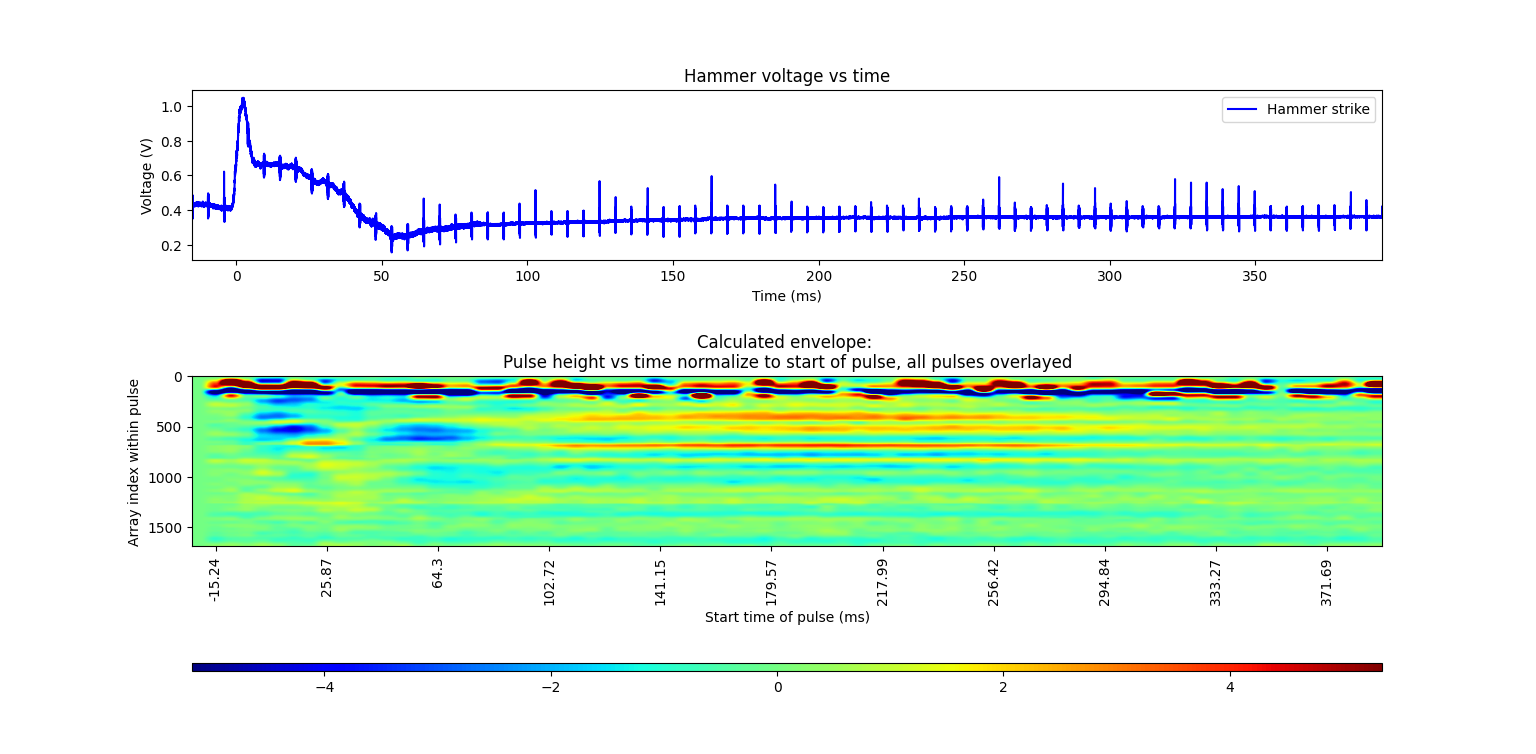
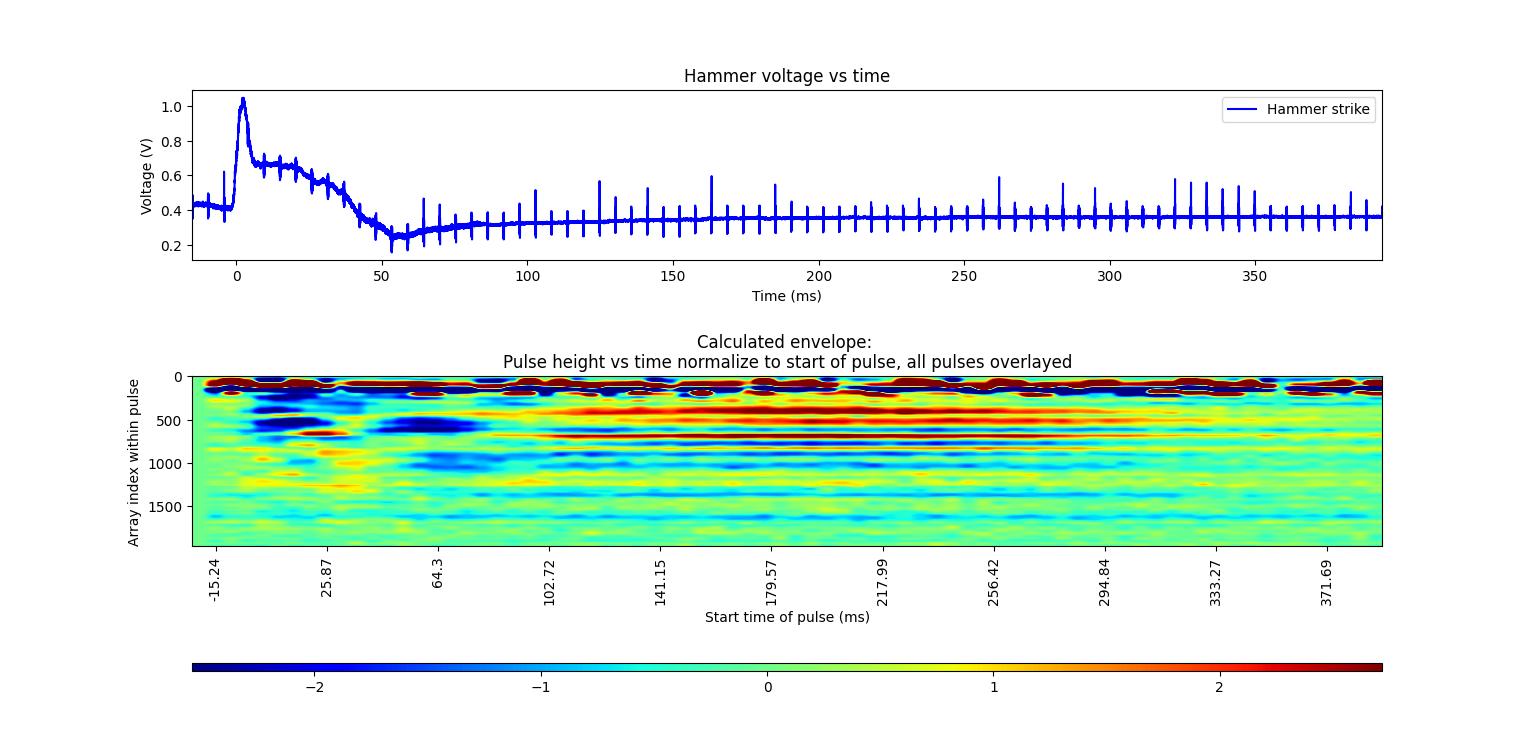
Better documentation for analyze_Pico_data.py

Changed region(s): [[0.0938, 0.4881, 0.9062, 0.7321], [0.1875, 0.8846, 0.2188, 0.9151]]

diff --git a/src/data_analysis_jupyter/analyze_Pico_data.py b/src/data_analysis_jupyter/analyze_Pico_data.py
@@ -1,3 +1,43 @@
+'''
+Name: analyze_Pico_data.py
+Last updated: 9/5/24 by Ruth Berkun
+
+Table of contents:
+    Helper functions:
+        find_maxima_envelope(signal, sampling_rate, approx_frequency):
+            Returns the envelope optained by connecting the relative maxima of the signal
+        butter_lowpass_filter(data, cutOff, fs, order=4):
+            Lowpass filter, returns lowpass filtered data
+        get_filtered_pulses(data, Sampling_frequency, use_raw_envelope = False):
+            Returns filtered version of data
+        get_envelope(data, use_raw_envelope = False):
+            Returns envelope of data
+        find_outliers_std(data, threshold=3):
+            Used to set color limits on heat maps and axis limits on gif
+    Functions to analyze cuff data:
+        get_reshaped_arrays(all_csv_data, col_indexes, skip_first_pulse = False):
+            Outputs 2D array for cuff heatmap, as well as other processing information for other functions to use.
+        get_phase_arrays(all_csv_data, col_indexes):
+            Used to analyze phase shift of the signal over slow time. Not used currently
+            and still in development.
+
+    Functions to display and save data:
+        plot_heat_map(input_files, folder_path = "", png_name = "", stddev = 3, use_emg = False, plot_circuit_env = False):
+            Plots heat map of given 2D array, displays it, allows user to search for a maximum, and saves it to specified location
+        get_gif(all_csv_data, col_indexes, save_as_mp4 = True, plot_hammer = False, plot_circuit_envelope = True, plot_calculated_envelope = True, compare_contraction = False, active_recieved_pulses_filtered = None, file_folder_name = "", specific_file_name = ""):
+            Plot the recieved pulses over time as a GIF or mp4
+        plot_2d(input_file_array, legends, use_integral = True, use_calculated_env = True, folder="", title="fig"):
+            Plots a heatmap as a single line (the line being the intergal or average of each pulse.)
+
+Instructions for use: 
+    - Stuff for user to edit is under 'if __name__ == "__main__":'
+        Wherever you see a "# !!!!!!!!!!!!!!!", this is something you should pay attention to edit.
+    - Once user is done editing the file location and function call parameters:
+    Lastly, in the terminal, run python analyze_Pico_data.py
+'''
+
+####################################################################################################### Imports
+
 import numpy as np
 import matplotlib.pyplot as plt
 import time as time
@@ -42,18 +82,29 @@ def find_maxima_envelope(signal, sampling_rate, approx_frequency):
 
     return envelope
 
-def butter_lowpass(cutOff, fs, order=5):
-    nyq = 0.5 * fs
-    normalCutoff = cutOff / nyq
-    b, a = butter(order, normalCutoff, btype='low', analog = True)
-    return b, a
-
 def butter_lowpass_filter(data, cutOff, fs, order=4):
+    def butter_lowpass(cutOff, fs, order=5):
+        nyq = 0.5 * fs
+        normalCutoff = cutOff / nyq
+        b, a = butter(order, normalCutoff, btype='low', analog = True)
+        return b, a
+    
     b, a = butter_lowpass(cutOff, fs, order=order)
     y = lfilter(b, a, data)
     return y
 
 def get_filtered_pulses(data, Sampling_frequency, use_raw_envelope = False):
+    '''
+    Filters the inputted signal.
+
+    Inputs:
+    - data: array of voltages of the signal to filter
+    - Sampling frequency: How many Hz data was sampled at
+    - use_raw_envelope: If true, do median filtering, otherwise do bandpass filter.
+
+    Outputs:
+    - Array of filtered voltages.
+    '''
     if (use_raw_envelope):
         kernel_size = 3
         return medfilt(data, kernel_size)
@@ -67,6 +118,16 @@ def get_filtered_pulses(data, Sampling_frequency, use_raw_envelope = False):
         return np.apply_along_axis(lambda x: sosfilt(sos, x), axis=0, arr = data)
 
 def get_envelope(data, use_raw_envelope = False):
+    '''
+    Get the envelope of the signal.
+
+    Inputs:
+    - data: array of voltages of the signal to filter
+    - use_raw_envelope: If true, use maxima envelope, otherwise use smooth Hilbert envelope.
+
+    Outputs:
+    - array of the envelope voltages
+    '''
     if use_raw_envelope:
         lowest_freq_of_recieved_sig = 20000 # needs to be much lower than 52 kHz -- this is what determines the distance between points on the envelope
         osc_sampling_freq = 200000
@@ -77,6 +138,20 @@ def get_envelope(data, use_raw_envelope = False):
     return calculated_envelope
 
 def find_outliers_std(data, threshold=3):
+    '''
+    Used to set color limits on heat maps and axis limits on gif.\n
+
+    Inputs: 
+    - data: Data to find outliers of
+    - threshold: How many standard deviations away from the mean is considered an outlier.
+
+    Outputs:
+    - lower_outliers: list of lower outlier voltages
+    - upper_outliers: list of upper outlier voltages
+    - lower_bound: Smallest number that is not an outlier
+    - upper_bound: Largerst number that is not an outlier
+    '''
+
     # Calculate the mean and standard deviation
     mean = np.mean(data)
     std_dev = np.std(data)
@@ -93,13 +168,26 @@ def find_outliers_std(data, threshold=3):
 
 ####################################################################################################### Processing functions
 
-def get_reshaped_arrays(all_csv_data, col_indexes):
+def get_reshaped_arrays(all_csv_data, col_indexes, skip_first_pulse = False):
     '''
-    Input:. \n
-        all_csv_data: your csv data as a pandas dataframe
-        col_indexes: Tells us which column in your CSV corresponds to what data collected from oscilloscope!
-        col_indexes = [times_col_index, hammer_index, transmit_col_index, recieve_col_index, circuit_col_index, emg_col_index = 1]
+    Outputs 2D array for cuff heatmap, as well as other processing information for other functions to use. \n
+
+    Input: \n
+    - all_csv_data: your csv data as a pandas dataframe
+    - col_indexes: Tells us which column in your CSV corresponds to what data collected from oscilloscope. \n
+    \t col_indexes = [times_col_index, hammer_index, transmit_col_index, recieve_col_index, circuit_col_index, emg_col_index = 1]
+    (It tells us which column of the CSV corresponds to times, to hammer, to cuff, etc)
+    - skip_first_pulse: Set this true to skip the first pulse we see.
+                    **Basically, this only needs to be set True if you plot the heatmap and it just looks like horizontal stripes.**
+                    (it means that the first pulse we found was actually the middle of a set of pulses, so we need to skip it
+                    and start from the next set of transmit pulses for the reshaping.)
+
     Return: hammer_times, hammer_recieved, emg_recieved, cuff_times_reshaped, cuff_recieved_reshaped, circuit_env_reshaped, time_ticks, NUM_PULSES
+    In each reshaped array: one row is one pulse. Reshaped arrays are 2D and all other arrays are 1D.
+    - hammer_times, hammer_recieved, emg: Times and voltages of the hammer and EMG signal from the CSV.
+    - cuff_times_reshaped: The CSV times reshaped in the same way the recieved signal is reshaped.
+    - cuff_recieved_reshaped, circuit_env_reshaped: Filtered recieved pulses and circuit envelope pulses reshaped, respectively.
+    - time_ticks: Start time of each pulse (1D array)
     '''
     use_raw_envelope = False
     keep_raw_data = True
@@ -125,7 +213,7 @@ def get_reshaped_arrays(all_csv_data, col_indexes):
 
     #####################################################  get reshaping scheme from transmit pulse
     total_start_indicies =  []
-    i = 0
+    i = 600 if skip_first_pulse else 0
     r = 0
     tr = -5
     max_pulse_length_in_indicies = 0
@@ -195,6 +283,10 @@ def get_reshaped_arrays(all_csv_data, col_indexes):
     return hammer_times, hammer_recieved, emg_recieved, times_reshaped, recieved_pulses_reshaped, circuit_envelope_reshaped, calculated_envelope_reshaped, time_ticks, NUM_PULSES
 
 def get_phase_arrays(all_csv_data, col_indexes):
+    '''
+    Used to analyze phase shift of the signal over slow time. Not used currently
+    and still in development.
+    '''
     #################################################################################### Quadrature phase stuff
     ############################################# Quadrature modulation time! ###########################################
     #####################################################################################################################
@@ -300,14 +392,28 @@ def get_phase_arrays(all_csv_data, col_indexes):
 
     return phase_reshaped
 
-
-
 ####################################################################################################### Plotting functions
 
 # Plots
 
 def plot_heat_map(input_files, folder_path = "", png_name = "", stddev = 3, use_emg = False, plot_circuit_env = False):
+    '''
+    Plots heat map of given 2D array, displays it, allows user to search for a maximum, and saves it to specified location.\n
+
+    Inputs:
+    - input_files: Same format as output of get_reshaped_arrays.
+        hammer_times, hammer_recieved, emg_recieved, cuff_times_reshaped, cuff_recieved_reshaped, circuit_env_reshaped, time_ticks, NUM_PULSES
+    - folder_path: Folder to save heatmap in. Must NOT end in "/". If it and png_name are blank, image will not be saved.
+    - png_name: Name of image to save heatmap in. If it and folder_path are blank, image will not be saved.
+    - stddev: How many standard deviations from the mean will be considered an outlier. Outliers determine the color limits
+            of the heat map. Make it lower to see more intense colors overall, and higher to see less intense colors overall.
+    - use_emg: Boolean telling us whether or not to plot the EMG signal on top of the hammer signal.
+    - plot_circuit_env: If true, the heat map will be of the circuit envelope. If false, the heat map will be of the calculated envelope.
     
+    Ouputs:
+    - Displays (and, if specified, saves) heatmap of the passed input arrays.
+    '''
+
     # Retrieve the data we need for the heat map
     hammer_times = input_files[0]
     hammer_recieved = input_files[1]
@@ -420,6 +526,24 @@ def plot_heat_map(input_files, folder_path = "", png_name = "", stddev = 3, use_
     print(f"Auto-detect found: Maximum muscle contraction found at {reflex_time} ms after hammer hit.")
 
 def get_gif(all_csv_data, col_indexes, save_as_mp4 = True, plot_hammer = False, plot_circuit_envelope = True, plot_calculated_envelope = True, compare_contraction = False, active_recieved_pulses_filtered = None, file_folder_name = "", specific_file_name = ""):
+    '''
+    Plot the recieved pulses over time as a GIF or mp4.\n
+
+    Inputs:
+    - all_csv_data: your csv data as a pandas dataframe
+    - col_indexes: Tells us which column in your CSV corresponds to what data collected from oscilloscope!
+        col_indexes = [times_col_index, hammer_index, transmit_col_index, recieve_col_index, circuit_col_index, emg_col_index = 1]
+            (It tells us which column of the CSV corresponds to times, to hammer, to cuff, etc)
+    Optional arguments:
+    - save_as_mp4: If true, saves as MP4, if false, saves as GIF. You must have ffmeg installed to save as an MP4.
+    - plot_hammer: Set true to plot the hammer signal in the gif
+    - plot_circuit_envelope: Set true to plot the circuit envelope in the gif
+    - plot_circuit_envelope: Set true to plot the calculated envelope in the gif
+    - compare_contraction: Set true to plot the contracted signal in the gif as well (in the background). Not available currently.
+    - active_recieved_pulses_filtered: The active recieved pulses (contracted signal) to plot in the background.
+    - file_folder_name: Folder to save gif in. Must NOT end in "/". 
+    - specific_file_name: Name of gif to save. 
+    '''
     save_as_mp4 = True # Saves as GIF when this is false. You need ffmeg installed to save as mp4.
     use_raw_envelope = False
     csv_times = all_csv_data[:,col_indexes[0]]
@@ -472,6 +596,20 @@ def get_gif(all_csv_data, col_indexes, save_as_mp4 = True, plot_hammer = False, 
     plt.show()
 
 def plot_2d(input_file_array, legends, use_integral = True, use_calculated_env = True, folder="", title="fig"):
+    '''
+    Plots a heatmap as a single line (the line being the intergal or average of each pulse.)
+
+    Inputs:
+     - input_file_array: An array of input_files. Each input_file is the same format as input_files in plot_heat_map and get_reshaped_arrays.
+     - legends: Titles of the plots to save
+     - use_integral: True to use integral, false to use average. Doesn't really matter because both calculate the sum of the abs of each pulse anyways.
+     - use_calculated_env: True to analyze the pulses from the calculated env, false to analyze the pulses from the circuit env
+     - folder: Location to save images in. Do not end in "/"
+     - title: Name of figure to save.
+
+     Ouputs:
+     - Lineplots for each file in input_file_array, saved to specified location.
+    '''
     times_arr = []
     lines_arr = []
     i = 0
@@ -549,31 +687,54 @@ def plot_2d(input_file_array, legends, use_integral = True, use_calculated_env =
 
 
 if __name__ == "__main__":
-    # col_indexes = [times, hammer, transmit, recieved, circuit_env, emg = 1]
+    # REMINDER: col_index_order: col_indexes = [times, hammer, transmit, recieved, circuit_env, emg = 1]
+    
+    # !!!!!!!!!!!!!!!!!!!!!!!!!!!!!!!!!!!!!!!!!!!!!!!!!!!! Example usage: Uncomment to analyze one trial.
+    ''' 
+    # !!!!!!!!!!!!!!! User should edit: file_name, col_order as needed.
+    file_name = "src/app_v1/data_from_experiments/lower_resolution_longer_time_trials/hamid/Pico/hamidtrial14.csv"
+    col_order = [0, 3, 4, 1, 2, 1]  # time, recieved, env, hammer, square
+    # !!!!!!!!!!!!!!!
+
+    # 1. Replace "infinity" signs in oscilloscope file if present, and shape into numpy dataframe.
     very_negative_number = -100
     very_positive_number = 100
-
-    file_name = "src/app_v1/data_from_experiments/lower_resolution_longer_time_trials/hamid/Pico/hamidtrial16.csv"
     file_folder_name = file_name[:file_name.rindex("/")]
     specific_file_name = file_name[file_name.rindex("/")+1:file_name.rindex(".")]
-    col_order = [0, 3, 4, 1, 2, 1]  # time, recieved, env, hammer, square
-
     my_csv = pd.read_csv(file_name,skiprows=1, sep=',' if file_name[-1]=="v" else "\s+")
     my_csv.replace([float('-inf'), '-∞'], very_negative_number, inplace=True)
     my_csv.replace([float('inf'), '∞'], very_positive_number, inplace=True)
     my_csv = my_csv.to_numpy()
-    my_arr = get_reshaped_arrays(my_csv, col_order)
+
+    # 2. Get reshaped arrays. 
+    # !!!!!!!!!!!!!! Use should make skip_first_pulse = True if the heat plot is only horizontal streaks
+    # (a sign of improper reshaping).
+    my_arr = get_reshaped_arrays(my_csv, col_order, skip_first_pulse=False)
    
-    plot_heat_map(my_arr, folder_path=file_folder_name, png_name=specific_file_name, stddev=6, plot_circuit_env=True)
-    plot_heat_map(my_arr, folder_path=file_folder_name, png_name=specific_file_name, stddev=5, plot_circuit_env=False)
-    # get_gif(my_csv, col_order, plot_circuit_envelope = False, file_folder_name=file_folder_name, specific_file_name=specific_file_name)
+    # 3. Plots! These will save in the same folder that the file you are reading is in (unless you edit file_folder_name)
     
-    '''
-    The below is for analyzing multiple trials at once.
+    # Heat map of circuit envelope
+    # plot_heat_map(my_arr, folder_path=file_folder_name, png_name=specific_file_name, stddev=6, plot_circuit_env=True)
+
+    # Heat map of calculated envelope
+    plot_heat_map(my_arr, folder_path=file_folder_name, png_name=specific_file_name, stddev=2.5, plot_circuit_env=False)
     
+    # GIF of calculated envelope and recieved pulses.
+    # get_gif(my_csv, col_order, save_as_mp4=False, plot_circuit_envelope = False, file_folder_name=file_folder_name, specific_file_name=specific_file_name)
+    
+    # 2D average map of calculated envelope.
+    # input_file_array = [my_arr]
+    # legends = [specific_file_name]
+    # plot_2d(input_file_array, legends, folder=file_folder_name, title=specific_file_name)
+    # '''
+
+    # !!!!!!!!!!!!!!!!!!!!!!!!!!!!!!!!!!!!!!!!!!!!!!!!!!!! Example usage: Analyzing multiple trials in one experiment 
+    # !!!!!!!!!!!!!!!!!!!!!!!!!!!!!!!!!!!!!!!!!!!!!!!!!!!! (2D line plot and average heatmap) 
+    #'''
+    
+    # !!!!!!!!!!!!!!! User should edit: legends, col_order, file_names as needed.
     legends = ["t1", "t2", "t3", "t4", "t5", "t6", "t7", "t8", "t9", "t10"]
     col_order = [0, 2, 3, 1, 1, 1]  # time, recieved, hammer, square
-
     file_names = ["src/app_v1/data_from_experiments/reflex_by_subject/Pico/sophie/sophietrial1.txt", 
                   "src/app_v1/data_from_experiments/reflex_by_subject/Pico/sophie/sophietrial2.txt",
                   "src/app_v1/data_from_experiments/reflex_by_subject/Pico/sophie/sophietrial3.txt",
@@ -584,24 +745,35 @@ if __name__ == "__main__":
                   "src/app_v1/data_from_experiments/reflex_by_subject/Pico/sophie/sophietrial8.txt",
                   "src/app_v1/data_from_experiments/reflex_by_subject/Pico/sophie/sophietrial9.txt",
                   "src/app_v1/data_from_experiments/reflex_by_subject/Pico/sophie/sophietrial10.txt"]
+    experiment_name = "sophie"
+    # !!!!!!!!!!!!!!!
 
     input_files_across_trials = []
-    total_thing = []
+    summed_heatmap_across_trials = []
     file_folder_name = ""
-    this_file_name = "sophie"
+
+    # Loop through each file in the folder provided, extracting the heatmap array from each one.
     for file_name in file_names:
+        # Get the name of file and folder the CSV is extracted from.
         file_folder_name = file_name[:file_name.rindex("/")]
         specific_file_name = file_name[file_name.rindex("/")+1:file_name.rindex(".")]
-        t1_csv = pd.read_csv(file_name,skiprows=1, sep=',' if file_name[-1]=="v" else "\s+").to_numpy()
-        t1_arr = get_reshaped_arrays(t1_csv, col_order)
-        if len(total_thing)==0: total_thing = np.asarray(t1_arr[5])
-        else: total_thing = np.add(total_thing[:min(len(total_thing), len(t1_arr[5]))], 
-                                   np.asarray(t1_arr[5][:min(len(total_thing), len(t1_arr[5]))]))
 
-        input_files_across_trials.append(t1_arr)
-    print(file_folder_name)
-    # plot_2d(input_files_across_trials, legends, folder=file_folder_name, title=this_file_name)
+        # Read the CSV and reshape the array.
+        trial_csv = pd.read_csv(file_name,skiprows=1, sep=',' if file_name[-1]=="v" else "\s+").to_numpy()
+        trial_arr = get_reshaped_arrays(trial_csv, col_order)
 
-    i = input_files_across_trials[0]
-    plot_heat_map([i[0], i[1], i[2], i[3], i[4], total_thing/len(file_names), i[6], i[7], i[8]])
-    '''  
+        # Running sum of heatmaps across trials.
+        # The slicing is to account for the fact that sometimes the length of the arrays is off by 1.
+        if len(summed_heatmap_across_trials)==0: summed_heatmap_across_trials = np.asarray(trial_arr[5])
+        else: summed_heatmap_across_trials = np.add(summed_heatmap_across_trials[:min(len(summed_heatmap_across_trials), len(trial_arr[5]))], 
+                                   np.asarray(trial_arr[5][:min(len(summed_heatmap_across_trials), len(trial_arr[5]))]))
+
+        input_files_across_trials.append(trial_arr)
+   
+    # Plot the overlayed line plots of each trial. The saved image will have the variance across lines in it.
+    # plot_2d(input_files_across_trials, legends, folder=file_folder_name, title=experiment_name)
+
+    # Plot the average heatmap across all trials for this experiment.
+    i = input_files_across_trials[0]    # Arbitrarily use the times and hammer strike from the first trial. 
+    plot_heat_map([i[0], i[1], i[2], i[3], i[4], summed_heatmap_across_trials/len(file_names), i[6], i[7], i[8]], folder_path=file_folder_name, png_name=experiment_name+"_average")
+    # '''  

diff --git a/src/app_v1/cuff_hammer_app_v1.py b/src/app_v1/cuff_hammer_app_v1.py
@@ -1,6 +1,6 @@
 '''
 Name: cuff_hammer_app_v1.py
-Last updated: 8/21/26 by Ruth Berkun
+Last updated: 8/21/24 by Ruth Berkun
 
 Table of contents:
     Functions to parse Arduino serial data:
